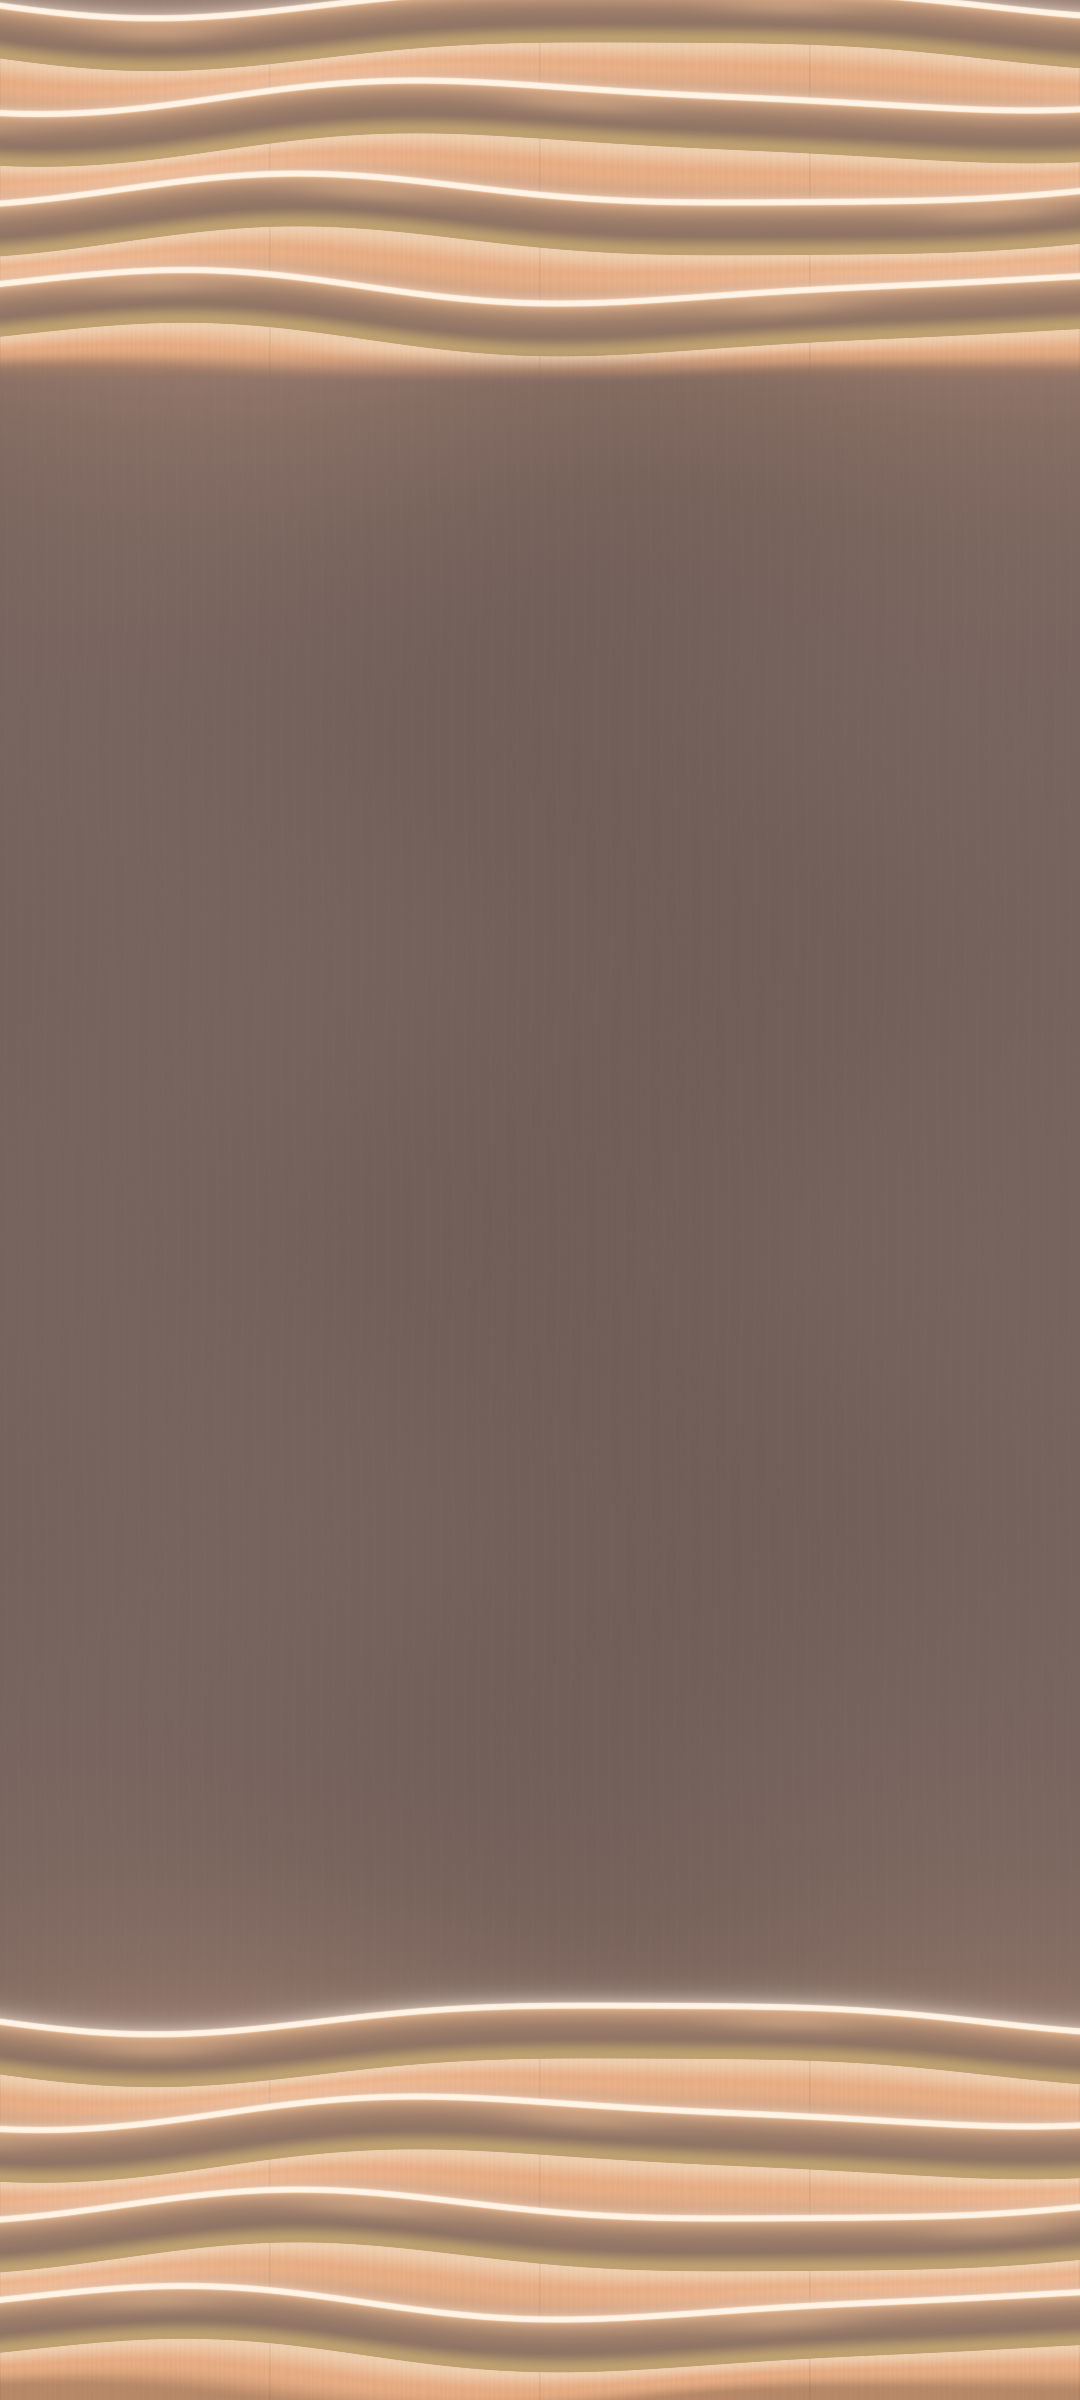
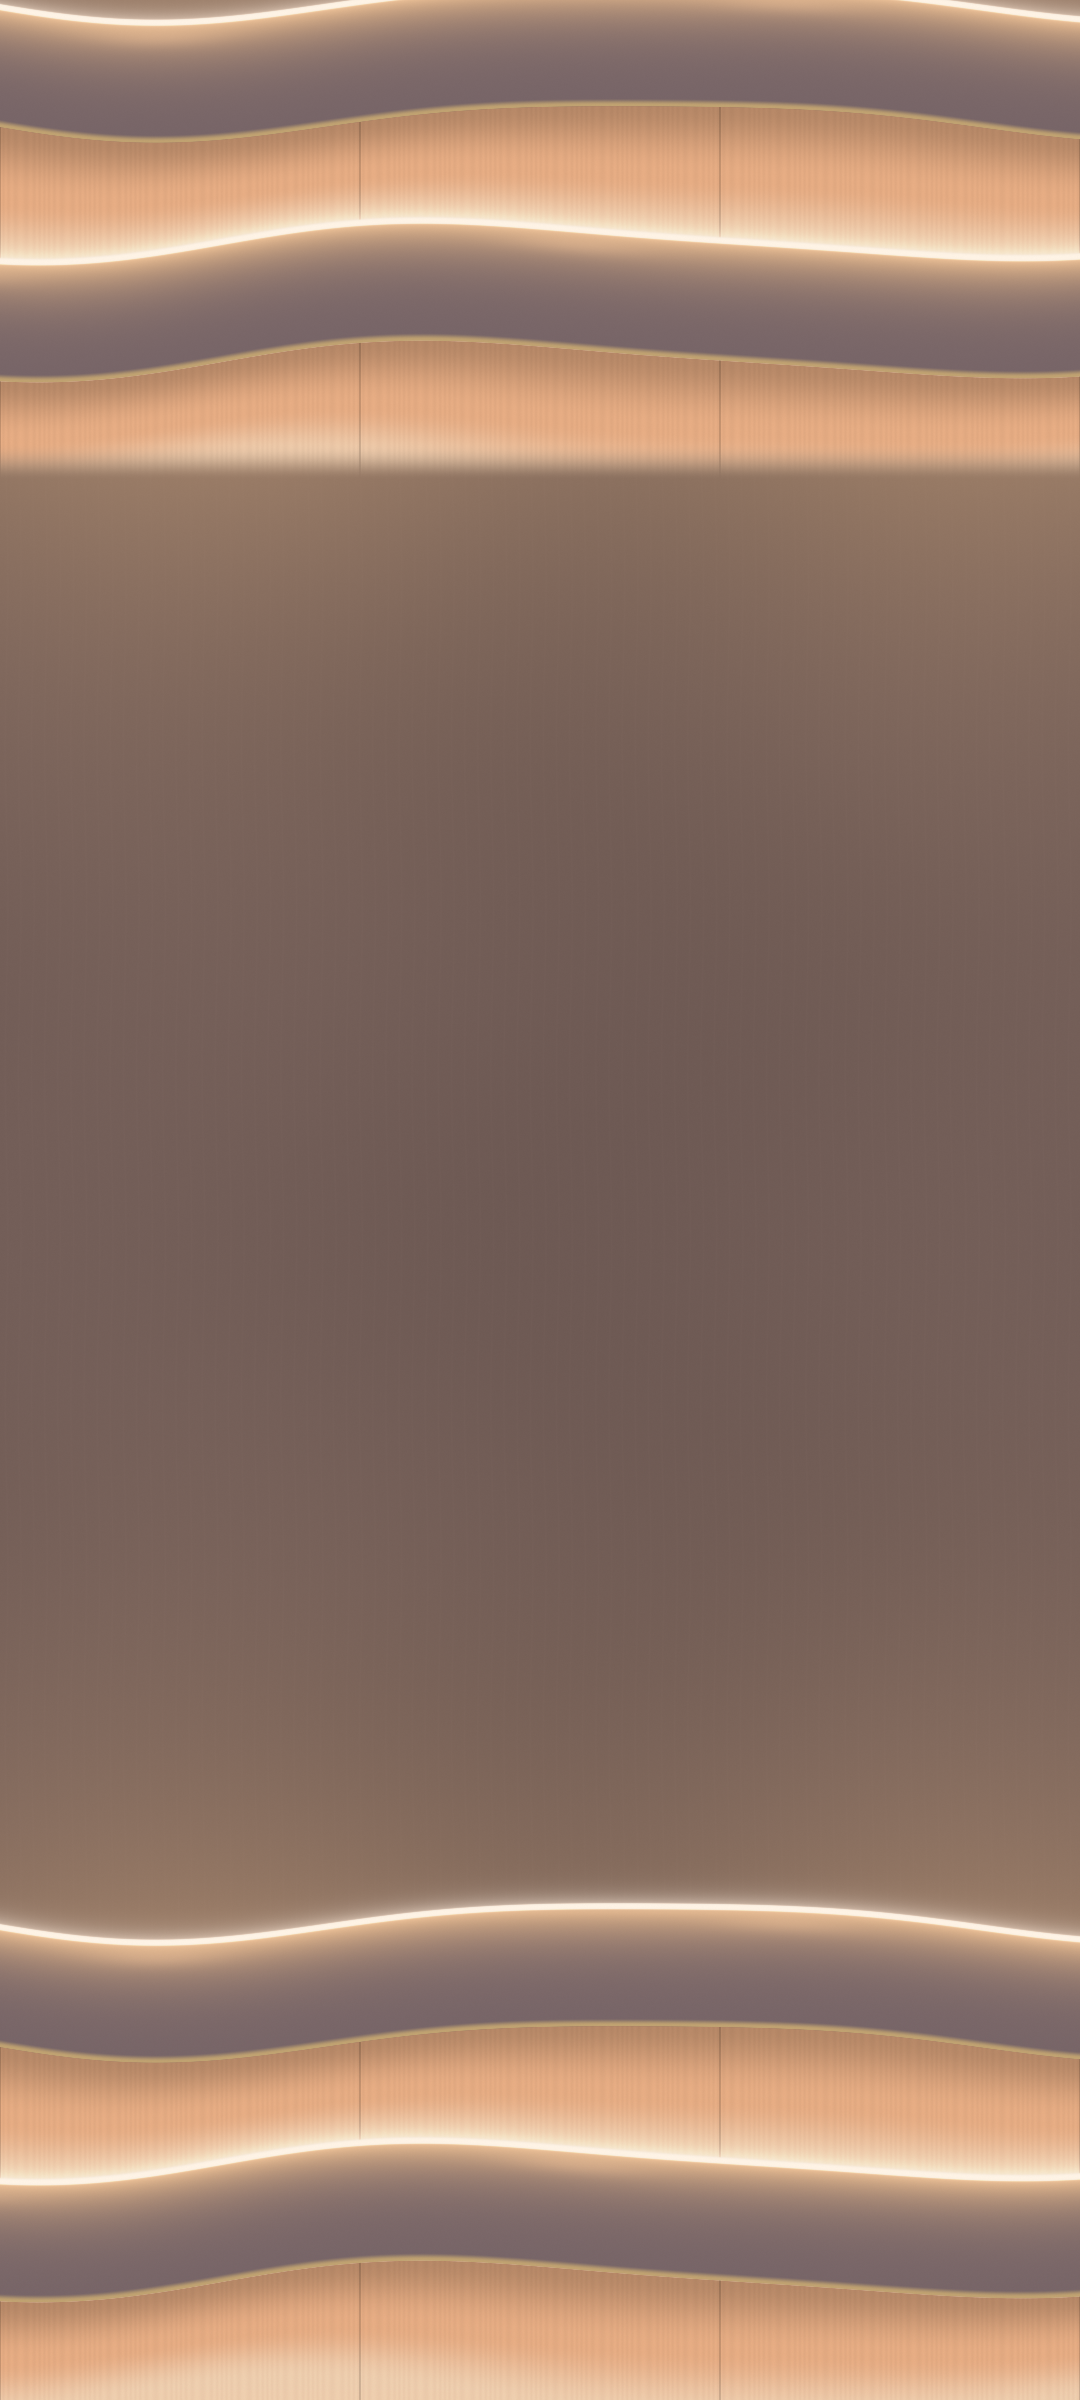
WIP Kinu v2: 背景の帯を太く・窓を見やすく(作業中)
Claude-Session: https://claude.ai/code/session_01EQFTQg9fP95wRPnruyYC8J

diff --git a/app/src/main/java/com/example/businesscard/ui/kinu/KinuShaders.kt b/app/src/main/java/com/example/businesscard/ui/kinu/KinuShaders.kt
@@ -9,10 +9,10 @@ package com.example.businesscard.ui.kinu
 internal object KinuShaders {
     const val BACKGROUND = """
 // Kinu の背景(画面全体)。SPEC.md v2-2・v2-3 BACKGROUND。見本は外装の布のドレープだけ(ref_facade.png)。
-// 上端と下端に、厚みのある布の帯が 4 段重なる(各 画面高の 16%)。
-// 各帯の上の縁は巻き込んで光の線を受け、下の縁は foldGold で折り返す。帯の間は窓(クリーム〜琥珀)のすき間。
-// 中央は広いトープ〜灰紫のサテンの陰の面(縦にごく淡いヘアライン、横にゆるいうねり)。
-// 帯の光の線は近くの面を暖かく照らす(40dp で減衰)。
+// 上端と下端に、厚みのある布の帯が 2 段+窓 2 段(帯・窓・帯・窓の順)。各 画面高の 20%。
+// 各帯の上の縁は巻き込んで光の線を受け(近くの面は明るいピーチ、離れるとトープ〜灰紫)、下の縁は foldGold で細く折り返す。
+// 帯の間の窓は黄みのクリーム〜琥珀で内から光り、窓の下端(次の帯の光の線のすぐ下)が最も明るい。
+// 中央は落ち着いたトープ〜灰紫のサテン。帯に近い所ほど暖かく明るい(80dp で減衰)。
 // 計算は線形の光で行い、toneMapC で丸めてから sRGB に戻し、最後にディザを入れる。
 // uniform の色は sRGB のまま渡し、ここで toLinearSrgb する。出力の y は画面の左上が原点。dp は 1dp の px。
 
@@ -30,10 +30,10 @@ layout(color) uniform half4 lineCore;
 
 const float PI = 3.14159265;
 
-// ---- 帯の領域(画面の上端・下端から各 16%) ----
-const float ZONE = 0.16;
-const float LAYERS = 4.0;        // 帯の段数(ループは 4 回)
-const float BAND_FRAC = 0.55;    // 帯の高さ / 段の間隔(残りが窓のすき間)
+// ---- 帯の領域(画面の上端・下端から各 20%) ----
+const float ZONE = 0.20;
+const float LAYERS = 2.0;        // 帯の段数(帯・窓の組)。ループは 2 回
+const float BAND_FRAC = 0.5;     // 帯の高さ / 段の間隔(残りが窓)
 const float FADE_IN = 10.0;      // 下の領域の上側のなじみ(dp)
 const float FADE_OUT = 14.0;     // 上の領域の下側のなじみ(dp)
 
@@ -43,8 +43,8 @@ const float LINE_GLARE_K = 0.45; // 上へのにじみ
 const float LINE_GLARE_UP = 3.0; // にじみの高さ(dp)
 
 // ---- 中央の面 ----
-const float LIGHT_REACH = 40.0;  // 帯の光が面を照らす距離(dp)
-const float WARM_K = 0.12;       // 面が受ける暖かい照り返しの強さ
+const float WARM_REACH = 80.0;   // 帯の照り返しが届く距離(dp)
+const float WARM_K = 0.3;        // 帯に接する所での暖かさ(0..1、ピーチへの混ざり)
 
 float3 toLin(half4 c) {
     return float3(toLinearSrgb(c.rgb));
@@ -70,41 +70,41 @@ float3 toneMapC(float3 x, float3 C) {
 }
 
 // 段 k の上縁の位置(dp、帯の領域の上端からの距離)。緩く大きな波(画面幅で約 1 周期)を重ねる。
-// 段の間隔より振幅が大きいので、帯は時々重なる(奥の段が手前の段の上に乗る)。
 float edgeAt(float k, float xd, float pitch) {
     return k * pitch
-        + 5.5 * sin(2.0 * PI * xd / 360.0 + 1.1 * k + 0.4)
-        + 1.6 * sin(2.0 * PI * xd / 200.0 + 0.7 * k);
+        + 7.0 * sin(2.0 * PI * xd / 360.0 + 1.1 * k + 0.4)
+        + 1.8 * sin(2.0 * PI * xd / 200.0 + 0.7 * k);
 }
 
-// 布の帯の面。s は上縁からの深さ(dp、0 以上)。上の縁は光の線に舐められて金、下へ向かって
-// 陰の面(トープ〜灰紫)へ落ちる。下の縁は foldGold の折り返し。つやは横に伸びる緩い波。
-float3 bandFace(float3 sh, float3 gl, float3 am, float3 fold, float s, float bh, float xd, float kf) {
-    float lit = exp(-s / 4.5);
-    float3 litCol = mix(am * 0.9, gl, 0.45);
-    float3 face = mix(sh, litCol, 0.12 + 0.88 * lit);
+// 布の帯の面。s は上縁からの深さ(dp、0 以上)。上の縁は光の線に舐められて明るいピーチ(goldLit)、
+// 離れるにつれトープ〜灰紫(facadeMauve)へ落ちる。下の縁は foldGold で細く折り返す。つやは横に伸びる緩い波。
+float3 bandFace(float3 far, float3 gl, float3 fold, float s, float bh, float xd, float kf) {
+    float lit = exp(-s / 9.0);
+    float3 face = mix(far, gl, lit);
     // つや: 上縁の少し下に、横へ伸びる弱いハイライト(段ごとに位相をずらす)
     float glint = pow(0.5 + 0.5 * sin(2.0 * PI * xd / 240.0 + kf * 2.1), 8.0)
         * exp(-((s - 6.0) * (s - 6.0)) / 12.0);
-    face += gl * 0.16 * glint;
-    // 下の縁の折り返し(下向きの面が照らされた金)
-    float fm = smoothstep(bh - 8.0, bh - 1.0, s);
-    face = mix(face, fold, 0.85 * fm);
+    face += gl * 0.12 * glint;
+    // 下の縁の細い折り返し(下向きの面が照らされた金)
+    float fm = smoothstep(bh - 3.0, bh - 0.5, s);
+    face = mix(face, fold, 0.9 * fm);
     return face;
 }
 
-// 帯の間の窓。wv は窓の中の位置(0 = 上の帯の下端、1 = 次の帯の上縁)。
-// 上がクリーム、中ほどが琥珀、下が深い琥珀。縦のブラインドを不揃いに、縦の桟を 4 分割。
+// 帯の間の窓。wv は窓の中の位置(0 = 上の帯の下端、1 = 次の帯の上縁=光の線のすぐ下)。
+// 下ほど明るく内から光る(深い琥珀 → 琥珀 → クリーム)。細かい縦のブラインド、少数の縦の桟。
 float3 windowCol(float3 hi, float3 am, float3 deep, float wv, float xd, float wdp) {
-    float3 w = mix(hi, am, smoothstep(0.0, 0.45, wv));
-    w = mix(w, deep, smoothstep(0.5, 1.0, wv));
-    float blind = 0.5 + 0.5 * sin(2.0 * PI * xd / 2.4 + 3.0 * sin(xd * 0.37));
-    w *= 0.97 + 0.03 * blind;
-    float mw = wdp / 4.0;
+    float3 w = mix(deep, am, smoothstep(0.0, 0.5, wv));
+    w = mix(w, hi, smoothstep(0.55, 1.0, wv));
+    // 細かい縦のブラインド(約 2.5dp 周期・わずかに不揃い)
+    float blind = 0.5 + 0.5 * sin(2.0 * PI * xd / 2.5 + 3.0 * sin(xd * 0.37));
+    w *= 0.94 + 0.06 * blind;
+    // 縦の桟(3 分割、約 1dp 幅)
+    float mw = wdp / 3.0;
     float mx = mod(xd, mw);
     float md = min(mx, mw - mx);
     float mc = 1.0 - smoothstep(0.25, 0.55, md);
-    w = mix(w, w * 0.6, 0.25 * mc);
+    w *= 1.0 - 0.3 * mc;
     return w;
 }
 
@@ -119,12 +119,15 @@ half4 main(float2 p) {
     float bh = pitch * BAND_FRAC;    // 帯の高さ(dp)
     float wdp = size.x / dp;
 
-    // 陰の面の基調(平均 #75625A 前後): トープ寄りに混ぜ、青を少し抑える
-    float3 sh = mix(toLin(facadeShade), toLin(facadeMauve), 0.6) * float3(1.0, 0.99, 0.84);
+    // 陰の面の基調: 平均 #6E5C55 前後の落ち着いたトープ(灰紫の寄りは少し)
+    float3 shade = toLin(facadeShade);
+    float3 mauve = toLin(facadeMauve);
+    float3 sh = mix(shade, mauve, 0.2);
+    float3 far = mix(shade, mauve, 0.7);   // 帯の離れた面(トープ〜灰紫)
     float3 gl = toLin(goldLit);
     float3 am = toLin(amber);
     float3 hi = toLin(amberHi);
-    float3 deep = am * 0.6;
+    float3 deep = toLin(amber) * 0.6;      // 奥の深い琥珀(#BA7D50 相当)
     float3 fold = toLin(foldGold);
     float3 lc = toLin(lineCore);
 
@@ -133,16 +136,17 @@ half4 main(float2 p) {
 
     // ---- 中央の陰の面(サテン): 横にゆるいうねり、縦のごく淡いヘアライン ----
     float yd = p.y / dp;
-    float wave = 1.0 + 0.06 * sin(2.0 * PI * xd / 380.0 + 0.8 + 0.5 * sin(2.0 * PI * yd / 210.0));
+    float wave = 1.0 + 0.05 * sin(2.0 * PI * xd / 380.0 + 0.8 + 0.5 * sin(2.0 * PI * yd / 210.0));
     float hx = mod(xd + 0.5 * sin(yd * 0.05), 5.0) - 2.5;
-    float hair = 0.035 * exp(-(hx * hx) / 0.12) - 0.012;
+    float hair = 0.03 * exp(-(hx * hx) / 0.12) - 0.01;
     float3 satin = sh * (wave + hair);
 
-    // 帯の光が近くの面を暖める(上と下の領域の縁から 40dp で減衰)
+    // 帯に近い所を暖める: 上と下の領域の縁から 80dp で減衰(近いほどピーチへ寄る)
     float dTop = max(yd - Zdp, 0.0);
     float dBot = max(((H - zpx) - p.y) / dp, 0.0);
-    float warmAmt = exp(-dTop / LIGHT_REACH) + exp(-dBot / LIGHT_REACH);
-    satin += am * WARM_K * warmAmt * (0.85 + 0.15 * sin(2.0 * PI * xd / 300.0));
+    float warmAmt = exp(-dTop / WARM_REACH) + exp(-dBot / WARM_REACH);
+    float warmMix = clamp(WARM_K * warmAmt * (0.85 + 0.15 * sin(2.0 * PI * xd / 300.0)), 0.0, 0.6);
+    satin = mix(satin, gl * 0.8, warmMix);
 
     // ---- 帯の領域(上端と下端のどちらか) ----
     bool bottom = p.y > H * 0.5;
@@ -152,7 +156,7 @@ half4 main(float2 p) {
     float3 zc = satin;
     float3 lineAcc = float3(0.0);
     // 段ごとに、帯(上縁〜下縁)、その下の窓(次の帯の上縁まで)の順に塗る。後の段が前の段の上に乗る
-    for (int k = 0; k < 4; k++) {
+    for (int k = 0; k < 2; k++) {
         float kf = float(k);
         float e0 = edgeAt(kf, xd, pitch);
         float e1 = edgeAt(kf + 1.0, xd, pitch);
@@ -160,7 +164,7 @@ half4 main(float2 p) {
         // 帯 k
         float s = ly - e0;
         float cov = smoothstep(-aa, aa, s) * (1.0 - smoothstep(bh - aa, bh + aa, s));
-        zc = mix(zc, bandFace(sh, gl, am, fold, max(s, 0.0), bh, xd, kf), cov);
+        zc = mix(zc, bandFace(far, gl, fold, max(s, 0.0), bh, xd, kf), cov);
 
         // 光の線: 芯(幅 1.2dp 前後)と、上へのにじみ、下へのわずかな広がり
         float core = exp(-(s * s) / 0.45);

diff --git a/docs/kinu/tools/preview_background.py b/docs/kinu/tools/preview_background.py
@@ -24,7 +24,7 @@ CS = skia.ColorSpace.MakeSRGB()
 
 W, H = 1080, 2400
 DP = 2.625
-ZONE_FRACTION = 0.16  # 上端・下端それぞれの帯の領域(シェーダーの ZONE と同じ)
+ZONE_FRACTION = 0.20  # 上端・下端それぞれの帯の領域(シェーダーの ZONE と同じ)
 
 COLOR_NAMES = ['facadeShade', 'facadeMauve', 'foldGold', 'goldLit', 'amber', 'amberHi', 'lineCore']
 
